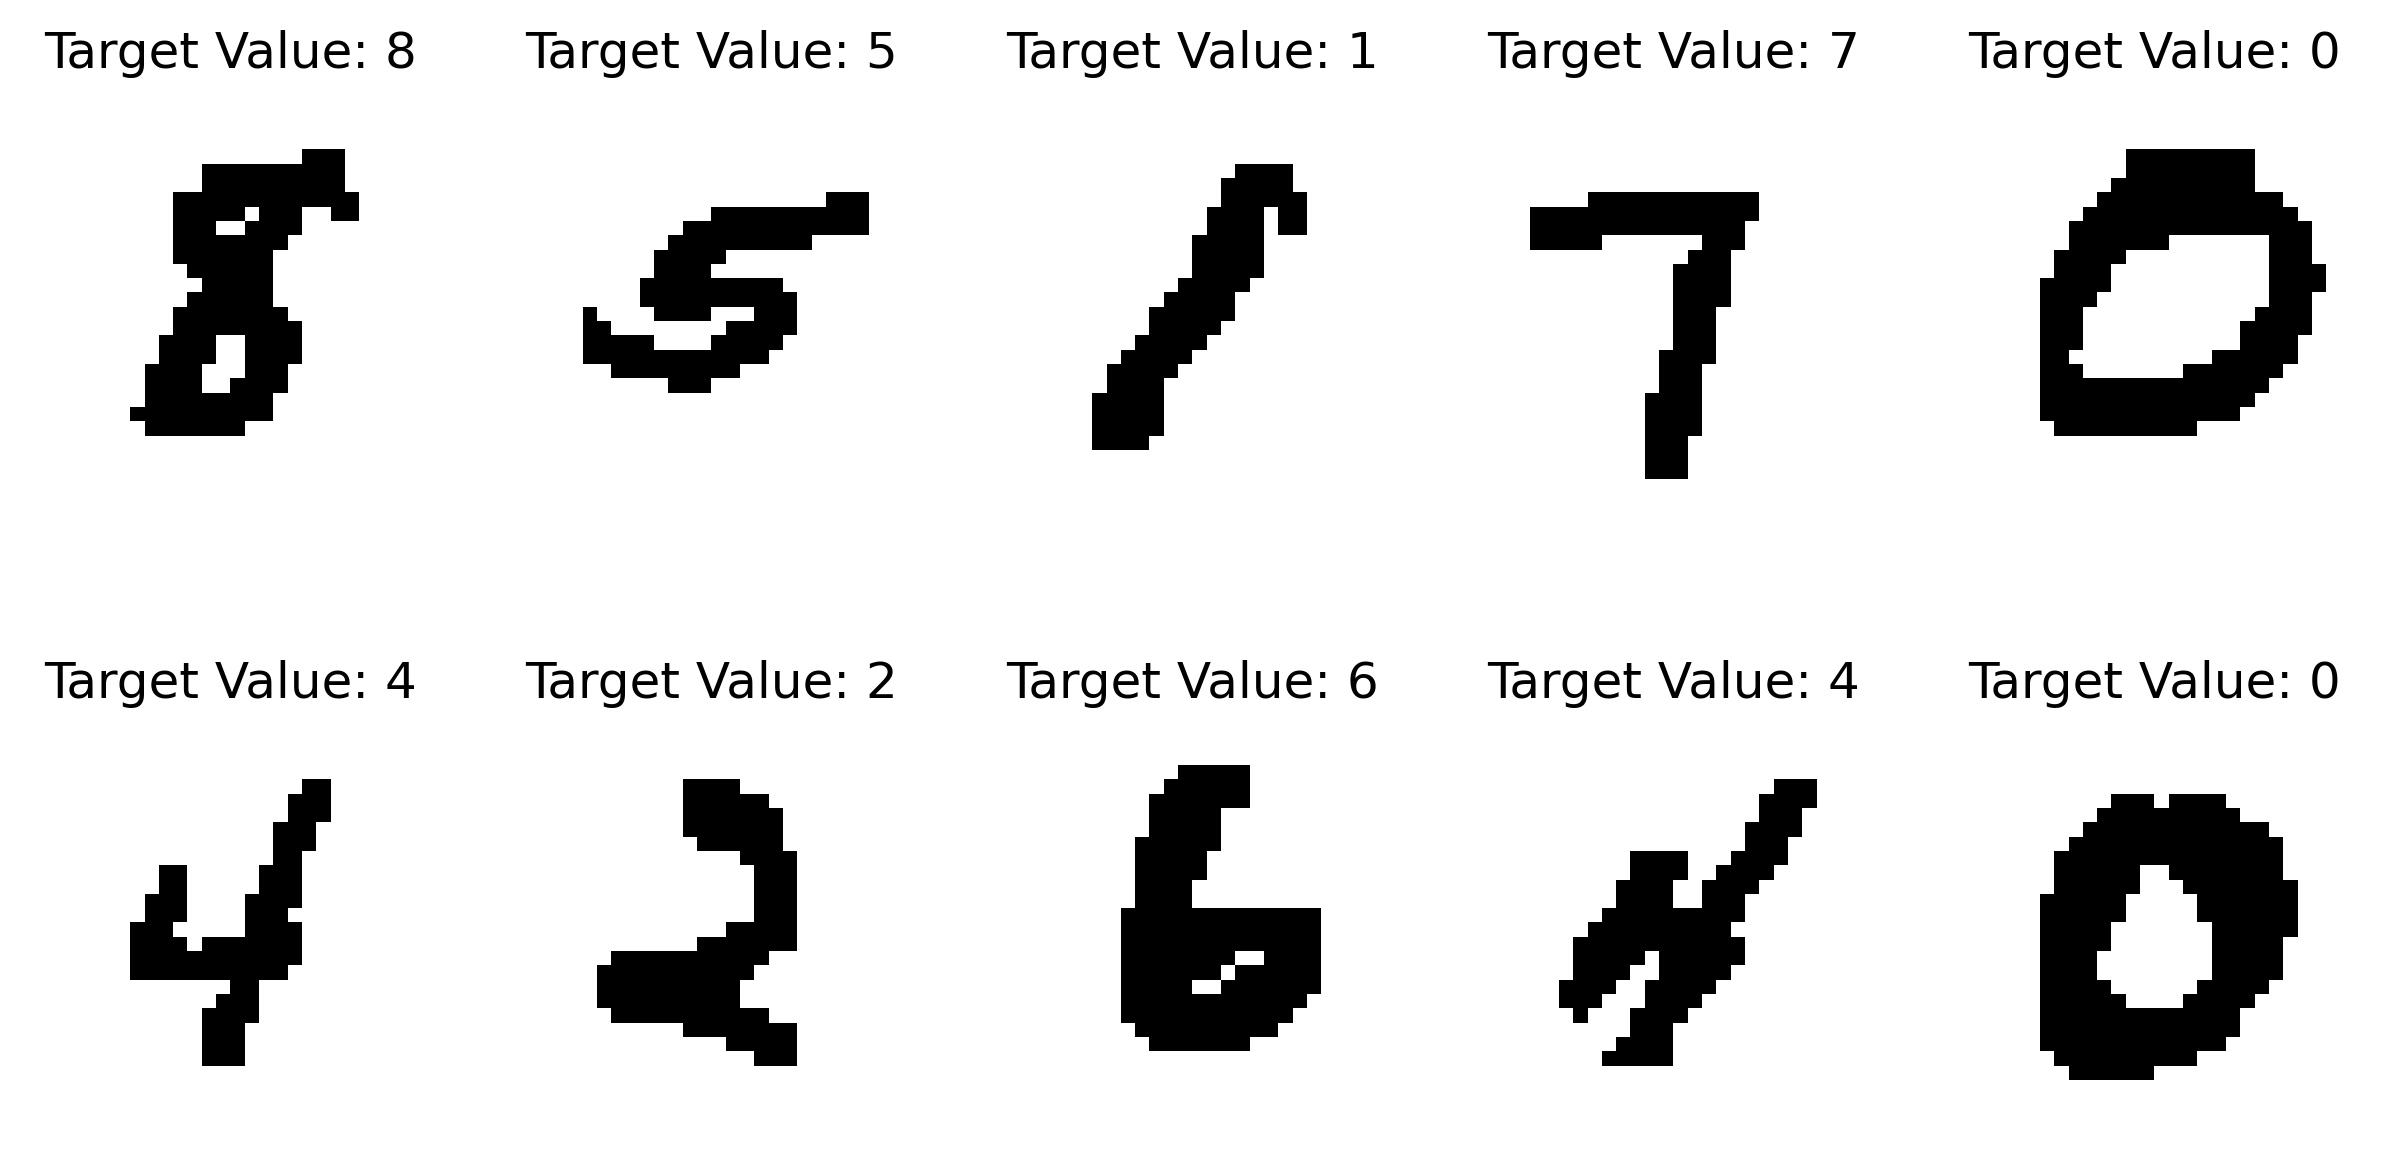
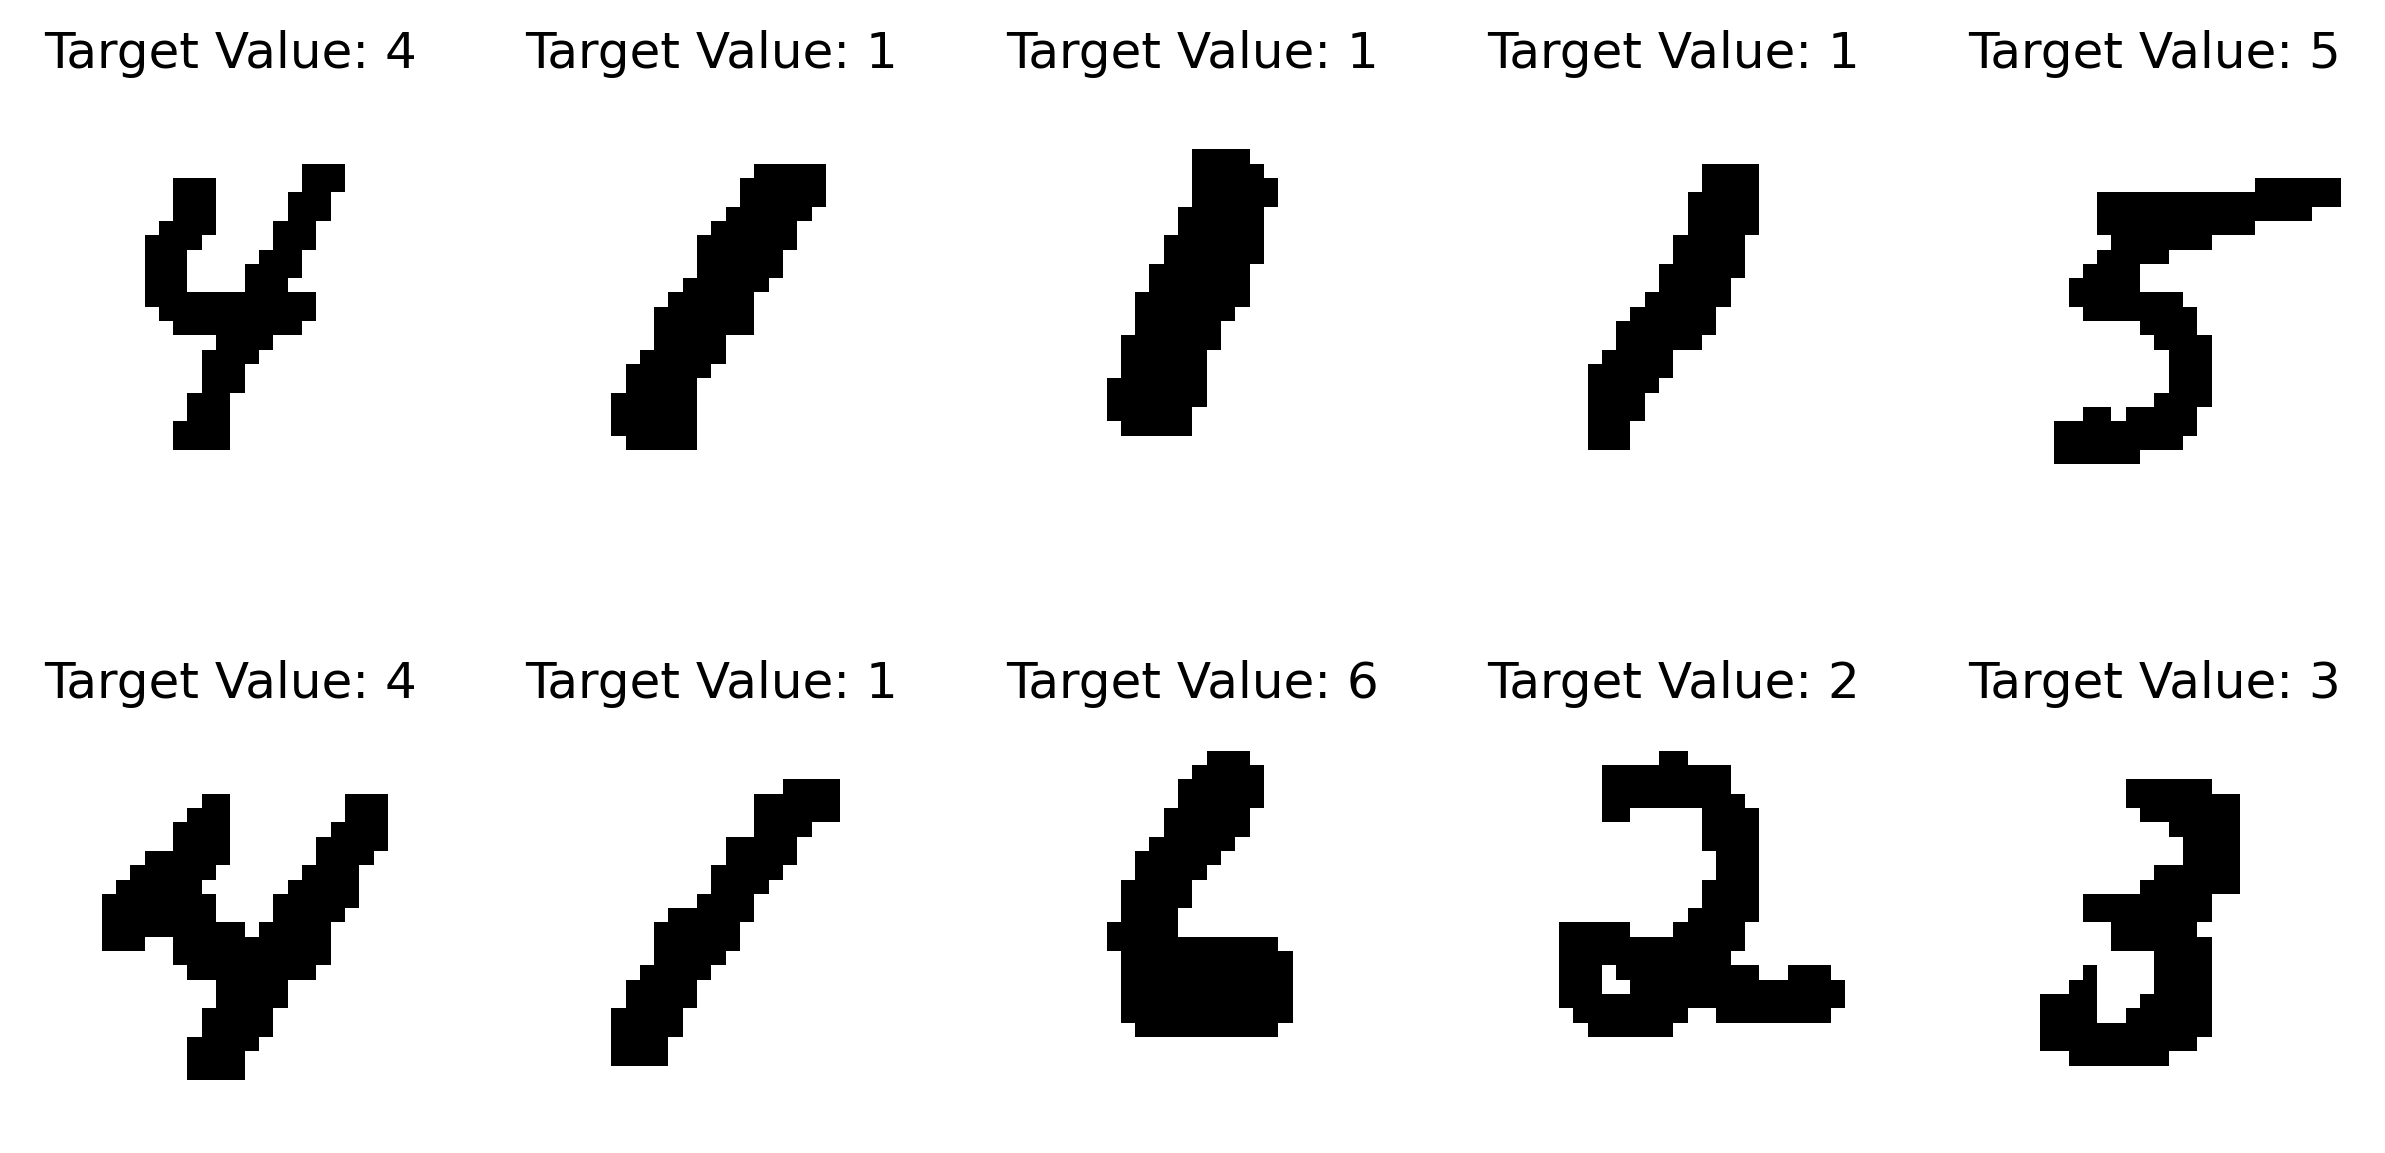
data set now contains 0-9. Added function to reconstruct digits from signal.

diff --git a/RateEncoder.py b/RateEncoder.py
@@ -2,6 +2,7 @@ import snntorch as snn
 from snntorch import utils, spikegen
 import torch
 from torch.utils.data import DataLoader
+from Functions.function import rmse
 from torchvision import datasets, transforms
 import matplotlib.pyplot as plt
 import snntorch.spikeplot as splt
@@ -19,18 +20,34 @@ class RateEncoder():
 
     def prepare_data(self):
         self.transform = transforms.Compose([
-                transforms.Resize((28,28)),
-                transforms.Grayscale(),
-                transforms.ToTensor(),
-                transforms.Normalize((0,), (1,))])
-        
-        self.dataset = datasets.MNIST('MNIST', train=True, download=True, transform=self.transform)
-        self.dataset = utils.data_subset(self.dataset, self.num_subsets)
-        #print(f"The size of mnist_train is {len(self.dataset)}")
-        self.train_loader = DataLoader(self.dataset, batch_size=self.batch_size, shuffle=True)
+            transforms.Resize((28, 28)),
+            transforms.Grayscale(),
+            transforms.ToTensor(),
+            transforms.Normalize((0,), (1,))
+        ])
+
+        full_dataset = datasets.MNIST('MNIST', train=True, download=True, transform=self.transform)
+
+        #select digits 0-9
+        digit_samples = {i: None for i in range(10)}
+        for image, label in full_dataset:
+            if digit_samples[label] is None:
+                digit_samples[label] = (image, label)
+
+            if all(digit_samples.values()): 
+                break
+
+        images, labels = zip(*digit_samples.values())
+        self.dataset = list(zip(images, labels))
+
+        self.train_loader = DataLoader(self.dataset, batch_size=self.batch_size, shuffle=False)
         self.data = iter(self.train_loader)
         self.data_iterator, self.targets_iterator = next(self.data)
-      
+
+        
+        self.targets_iterator = list(self.targets_iterator.numpy())
+
+        print(f"Selected Digits: {self.targets_iterator}")  # Should print [0,1,2,3,4,5,6,7,8,9]      
 
     def spike_data(self, numberOfSteps, gain):
         self.gain = gain
@@ -74,3 +91,46 @@ class RateEncoder():
         plt.ylabel("Neuron Number")
         plt.savefig("RateEncodingResults\\RateEncoded1stDigitRasterPlot", bbox_inches="tight", dpi=300)
         plt.close(fig) 
+
+    def dataset_summary(self, data):
+        print("Rate Dataset Information:")
+        print(f"🔹 Batch Size: {self.batch_size}")
+        print(f"🔹 Number of Subsets (Total Images): {self.num_subsets}")
+        print(f"🔹 Time Steps: {self.num_steps}")
+        print(f"🔹 Data Shape: {data.shape}")
+
+        afn_per_digit = data.sum(dim=(0, 2, 3, 4)) / self.num_steps
+        print("Average Firing Number (AFN) per Digit:")
+        for i, afn in enumerate(afn_per_digit):
+            print(f"🔹 Digit {self.targets_iterator[i]}: {afn.item():.2f}")
+
+        print("Spike Time Distribution:")
+        print(f"🔹 Min spike time: {data.min().item():.2f}")
+        print(f"🔹 Max spike time: {data.max().item():.2f}")
+        print(f"🔹 Mean spike time: {data.mean().item():.2f}")
+
+    def reconstruct_images(self, data, filename="RateEncodingResults/RateEncoded_Reconstruction.png"):
+        reconstructed_images = data.mean(dim=0).squeeze().cpu()
+
+        original_images = self.data_iterator.squeeze().cpu()
+
+
+        fig, axes = plt.subplots(2, 10, figsize=(15, 3))
+
+        for i in range(10):
+
+            print(f'RMSE for figure {i}: {rmse(original_images[i], reconstructed_images[i])}')
+
+            axes[0, i].imshow(original_images[i], cmap='gray')
+            axes[0, i].set_title(f"Original {self.targets_iterator[i]}")
+            axes[0, i].axis('off')
+
+            axes[1, i].imshow(reconstructed_images[i], cmap='gray')
+            axes[1, i].set_title(f"New {self.targets_iterator[i]}")
+            axes[1, i].axis('off')
+
+        plt.savefig(filename, bbox_inches="tight", dpi=300)
+        plt.close(fig)
+        print(f"✅ Reconstructed images saved as {filename}")
+
+        #return reconstructed_images  # Returning reconstructed images for further analysis

diff --git a/LatencyEncoder.py b/LatencyEncoder.py
@@ -1,4 +1,5 @@
 import snntorch as snn
+from Functions.function import rmse
 from snntorch import utils, spikegen
 import torch
 from torch.utils.data import DataLoader
@@ -18,17 +19,34 @@ class LatencyEncoder():
 
     def prepare_data(self):
         self.transform = transforms.Compose([
-                transforms.Resize((28,28)),
-                transforms.Grayscale(),
-                transforms.ToTensor(),
-                transforms.Normalize((0,), (1,))])
-        
-        self.dataset = datasets.MNIST('MNIST', train=True, download=True, transform=self.transform)
-        self.dataset = utils.data_subset(self.dataset, self.num_subsets)
-        #print(f"The size of mnist_train is {len(self.dataset)}")
-        self.train_loader = DataLoader(self.dataset, batch_size=self.batch_size, shuffle=True)
+            transforms.Resize((28, 28)),
+            transforms.Grayscale(),
+            transforms.ToTensor(),
+            transforms.Normalize((0,), (1,))
+        ])
+
+        full_dataset = datasets.MNIST('MNIST', train=True, download=True, transform=self.transform)
+
+        #select digits 0-9
+        digit_samples = {i: None for i in range(10)}
+        for image, label in full_dataset:
+            if digit_samples[label] is None:
+                digit_samples[label] = (image, label)
+
+            if all(digit_samples.values()): 
+                break
+
+        images, labels = zip(*digit_samples.values())
+        self.dataset = list(zip(images, labels))
+
+        self.train_loader = DataLoader(self.dataset, batch_size=self.batch_size, shuffle=False)
         self.data = iter(self.train_loader)
         self.data_iterator, self.targets_iterator = next(self.data)
+
+        
+        self.targets_iterator = list(self.targets_iterator.numpy())
+
+        print(f"Selected Digits: {self.targets_iterator}")  # Should print [0,1,2,3,4,5,6,7,8,9]
 
     def spike_data(self, numberOfSteps, tau, threshold):
         return spikegen.latency(self.data_iterator, num_steps=numberOfSteps, tau=tau, threshold=threshold,normalize=True,linear=True,clip=True)
@@ -52,7 +70,6 @@ class LatencyEncoder():
         HTML(anim.to_html5_video())
         anim.save("LatencyEncodingResults\\LatencyEncoded1stDigit.gif")
         #print(f"The corresponding target is: {self.targets_iterator[0]}")
-
 
     def showTargetNumbers(self, data):        
         fig, axes = plt.subplots(2, 5, figsize=(10, 5))  
@@ -80,7 +97,7 @@ class LatencyEncoder():
         plt.close(fig) 
 
     def dataset_summary(self, data):
-        print("Dataset Information:")
+        print("Latency Dataset Information:")
         print(f"🔹 Batch Size: {self.batch_size}")
         print(f"🔹 Number of Subsets (Total Images): {self.num_subsets}")
         print(f"🔹 Time Steps: {self.num_steps}")
@@ -95,3 +112,29 @@ class LatencyEncoder():
         print(f"🔹 Min spike time: {data.min().item():.2f}")
         print(f"🔹 Max spike time: {data.max().item():.2f}")
         print(f"🔹 Mean spike time: {data.mean().item():.2f}")
+
+    def reconstruct_images(self, data, filename="LatencyEncodingResults/LatencyEncoded_Reconstruction.png"):
+        reconstructed_images = data.mean(dim=0).squeeze().cpu()
+
+        original_images = self.data_iterator.squeeze().cpu()
+
+
+        fig, axes = plt.subplots(2, 10, figsize=(15, 3))
+
+        for i in range(10):
+
+            print(f'RMSE for figure {i}: {rmse(original_images[i], reconstructed_images[i])}')
+
+            axes[0, i].imshow(original_images[i], cmap='gray')
+            axes[0, i].set_title(f"Original {self.targets_iterator[i]}")
+            axes[0, i].axis('off')
+
+            axes[1, i].imshow(reconstructed_images[i], cmap='gray')
+            axes[1, i].set_title(f"New {self.targets_iterator[i]}")
+            axes[1, i].axis('off')
+
+        plt.savefig(filename, bbox_inches="tight", dpi=300)
+        plt.close(fig)
+        print(f"✅ Reconstructed images saved as {filename}")
+
+        #return reconstructed_images  # Returning reconstructed images for further analysis

diff --git a/Main.py b/Main.py
@@ -6,12 +6,12 @@ if __name__ == "__main__":
     rateEncoder = RateEncoder.RateEncoder()
 
 
-    latencyEncodedData = latencyEncoder.spike_data(numberOfSteps=100,tau=5,threshold=0.01)
-    rateEncodedData = rateEncoder.spike_data(numberOfSteps=100, gain=1)
+    latencyEncodedData = latencyEncoder.spike_data(numberOfSteps=100,tau=5,threshold=0.005)
+    rateEncodedData = rateEncoder.spike_data(numberOfSteps=100, gain=0.33)
 
-    latencyEncoder.saveAllVisualizations(latencyEncodedData)
-    latencyEncoder.dataset_summary(latencyEncodedData)
-    #rateEncoder.saveAllVisualizations(rateEncodedData)
-
-
-
+    #latencyEncoder.saveAllVisualizations(latencyEncodedData)
+    #latencyEncoder.dataset_summary(latencyEncodedData)
+    rateEncoder.dataset_summary(rateEncodedData)
+    
+    rateEncoder.reconstruct_images(rateEncodedData)
+    rateEncoder.saveAllVisualizations(rateEncodedData)
